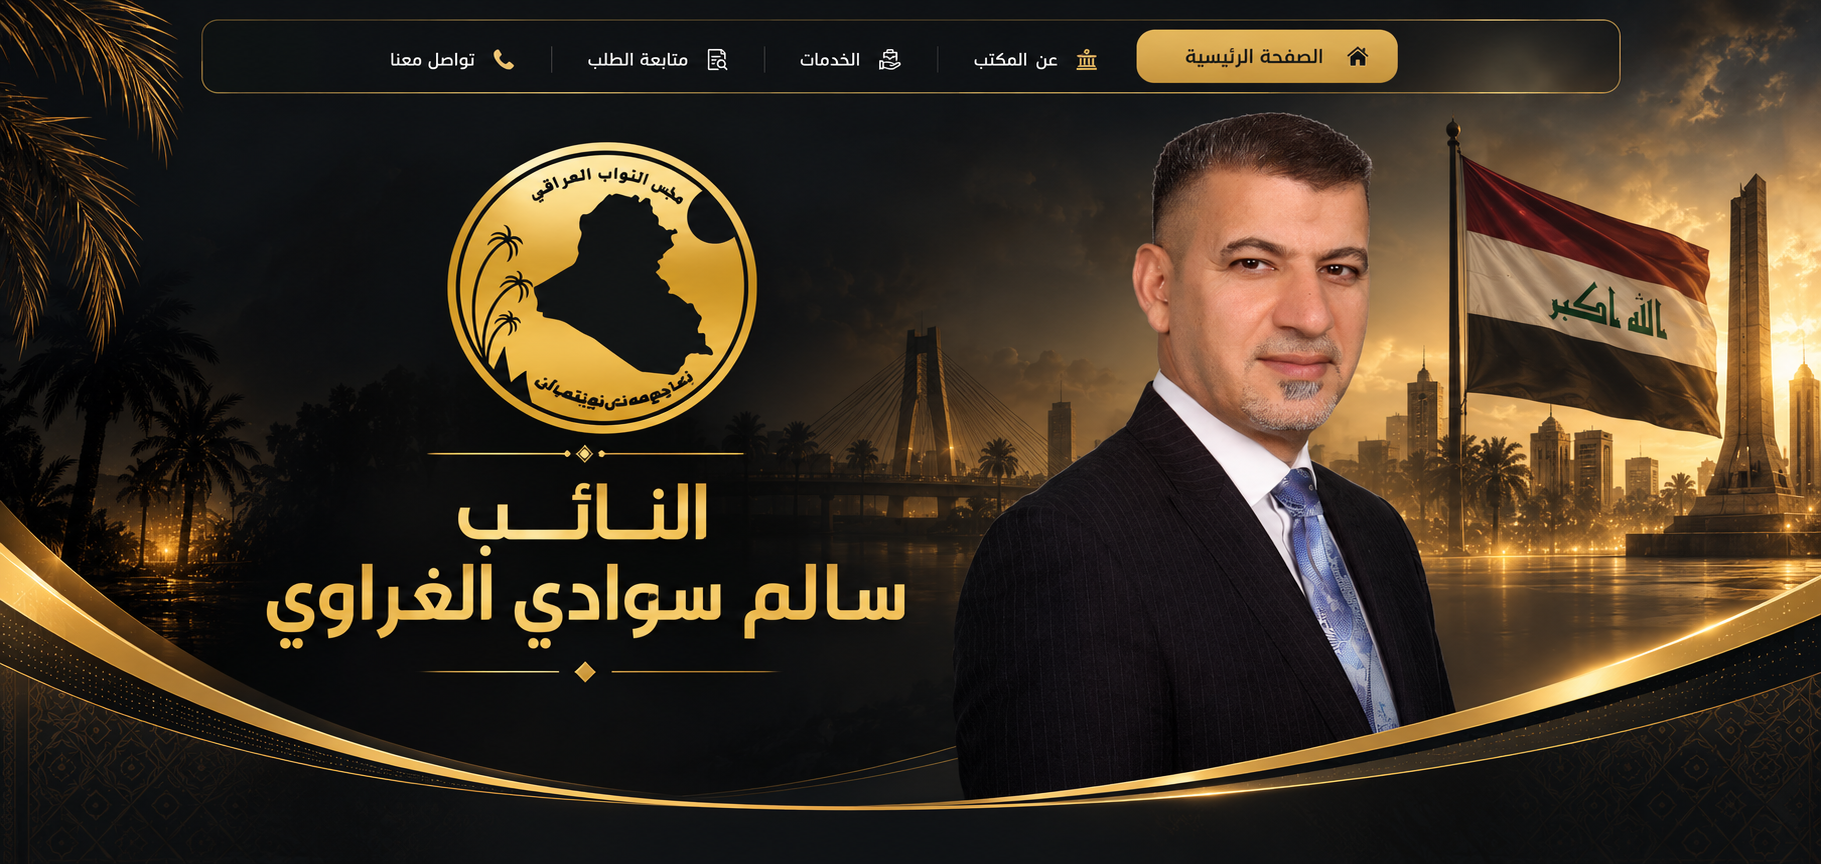
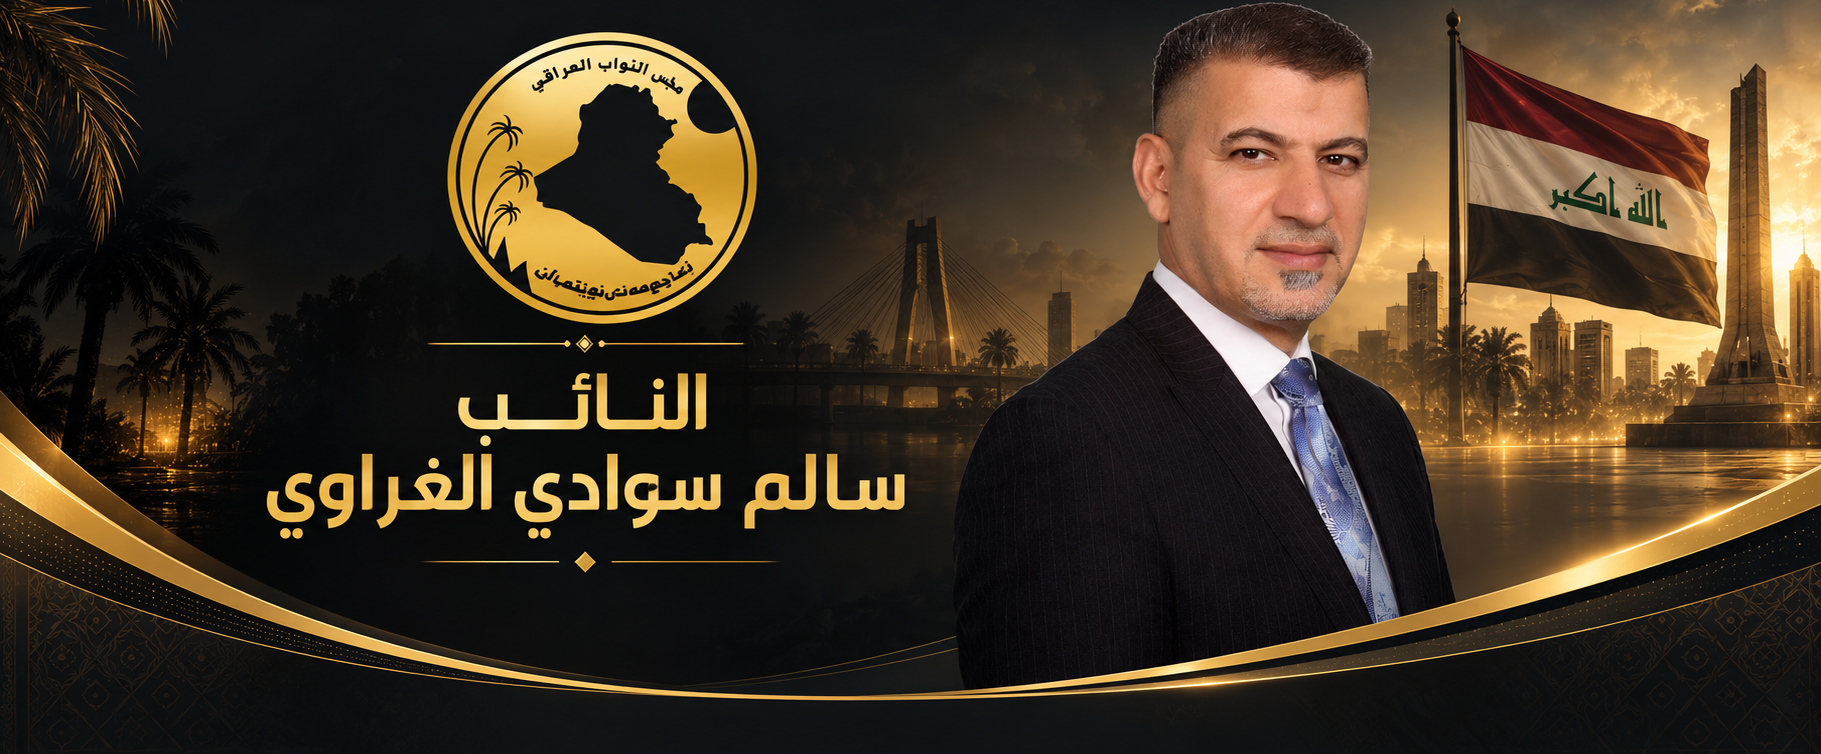
Crop mock nav from luxury hero and refresh homepage screenshots.
Keeps the Baghdad reference scene while the interactive pill nav is the
only clickable menu on the first viewport.

diff --git a/src/components/hero.tsx b/src/components/hero.tsx
@@ -28,13 +28,13 @@ export function Hero({ site: _site }: { site: SiteContentSnapshot }) {
         sizes="100vw"
       />
 
-      {/* Mask the mock nav baked into the artwork; keep interactive pills readable */}
+      {/* Soft shade for pill contrast only — artwork has no mock nav strip */}
       <div
-        className="pointer-events-none absolute inset-x-0 top-0 z-[1] h-[4.75rem] bg-gradient-to-b from-black/70 via-black/40 to-transparent sm:h-[5.25rem]"
+        className="pointer-events-none absolute inset-x-0 top-0 z-[1] h-28 bg-gradient-to-b from-black/50 via-black/15 to-transparent"
         aria-hidden
       />
 
-      <div className="absolute inset-x-0 top-0 z-20 pt-3 sm:pt-4">
+      <div className="absolute inset-x-0 top-0 z-20 pt-4 sm:pt-5">
         <HeroPillNav floating />
       </div>
 
